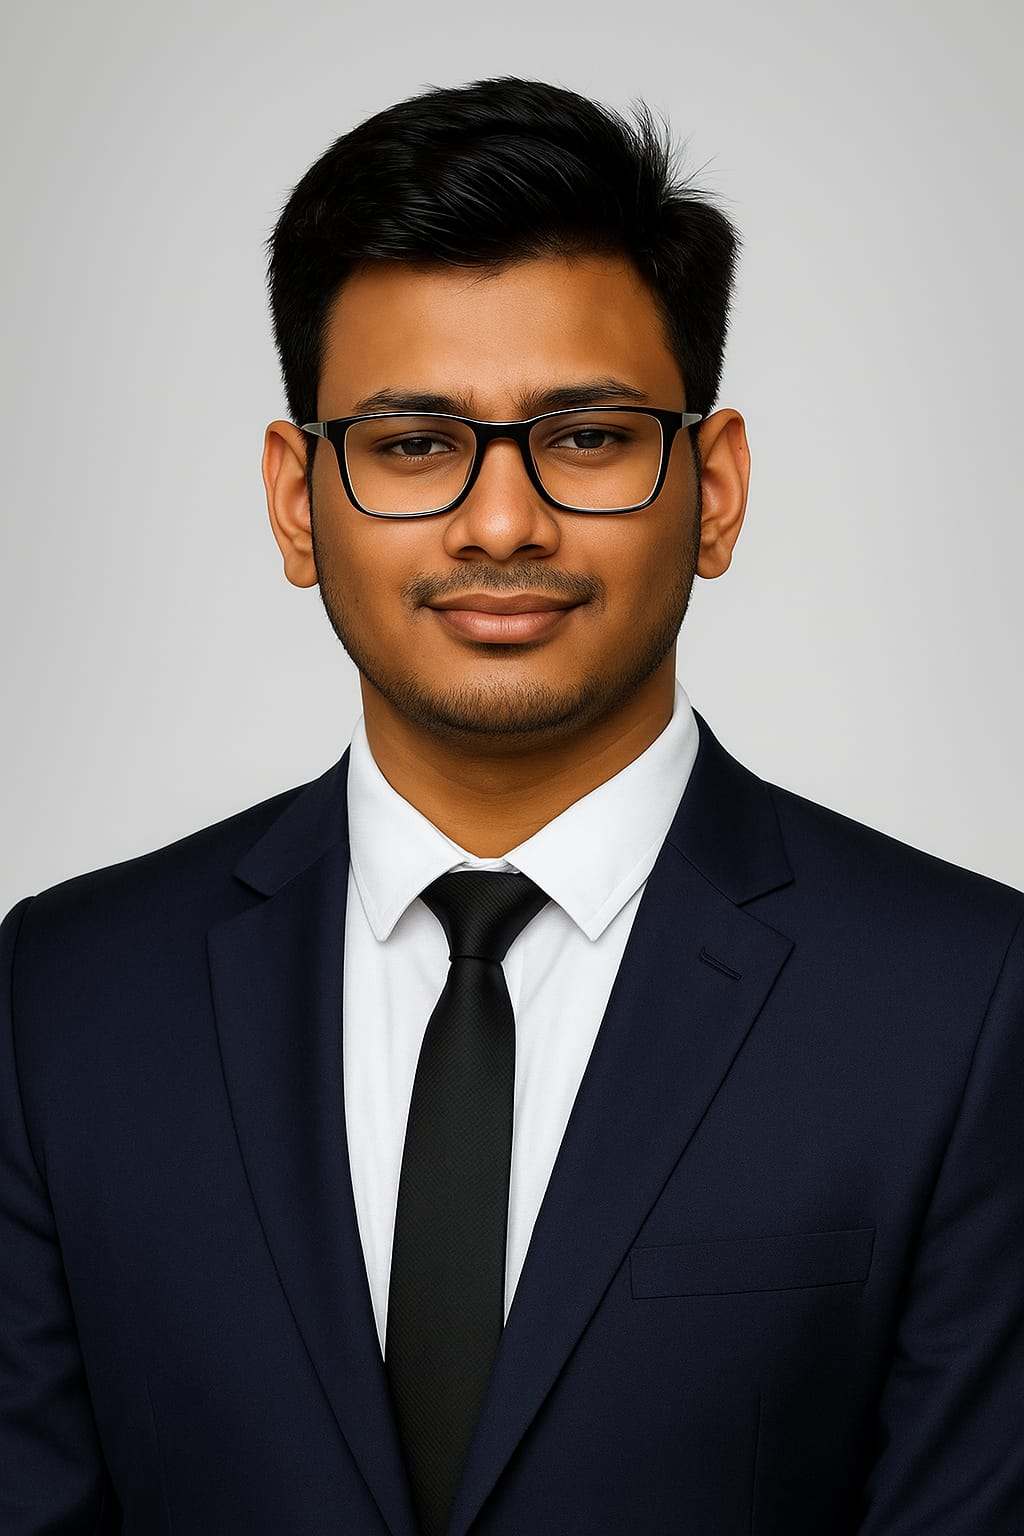
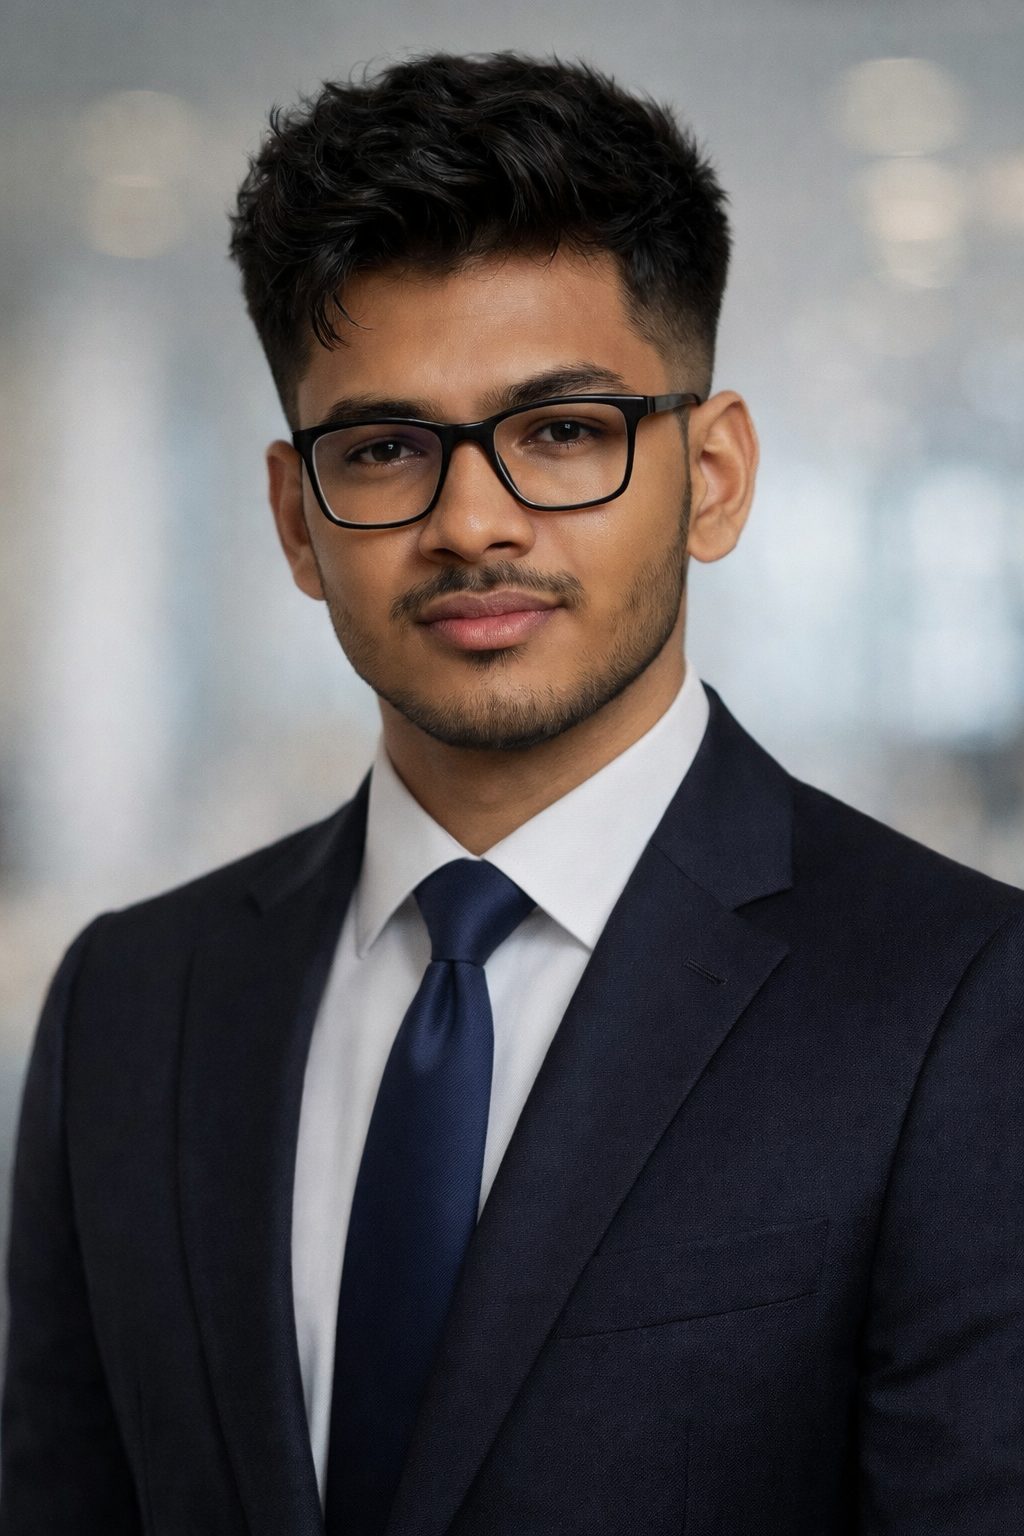
update

diff --git a/index.html b/index.html
@@ -305,7 +305,7 @@
           >
             <i class="fab fa-instagram"></i>
           </a>
-          <a href="https://www.linkedin.com/in/amitkashyap2504" target="_blank">
+          <a href="https://www.linkedin.com/in/sakshi-barwade-6bb20524b/" target="_blank">
             <i class="fab fa-linkedin"></i>
           </a>
           <a href="https://github.com/Snehadangare31" target="_blank">
@@ -332,7 +332,7 @@
             <i class="fab fa-instagram"></i>
           </a>
           <a
-            href="https://www.linkedin.com/in/jaya-vashistha9?utm_source=share&utm_campaign=share_via&utm_content=profile&utm_medium=android_app"
+            href="https://www.linkedin.com/in/sneha-dangare-5b8aa1323/"
             target="_blank"
           >
             <i class="fab fa-linkedin"></i>
@@ -356,7 +356,7 @@
             <i class="fab fa-instagram"></i>
           </a>
           <a
-            href="https://www.linkedin.com/in/aditya-choudhary-03644a23b?utm_source=share&utm_campaign=share_via&utm_content=profile&utm_medium=android_app"
+            href="https://www.linkedin.com/in/ankita-dhagate1525/"
             target="_blank"
           >
             <i class="fab fa-linkedin"></i>
